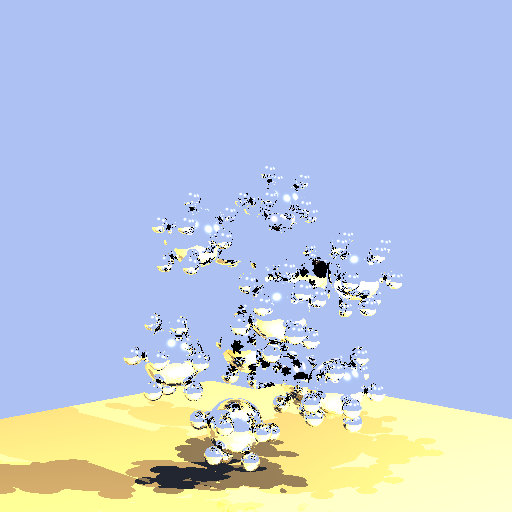
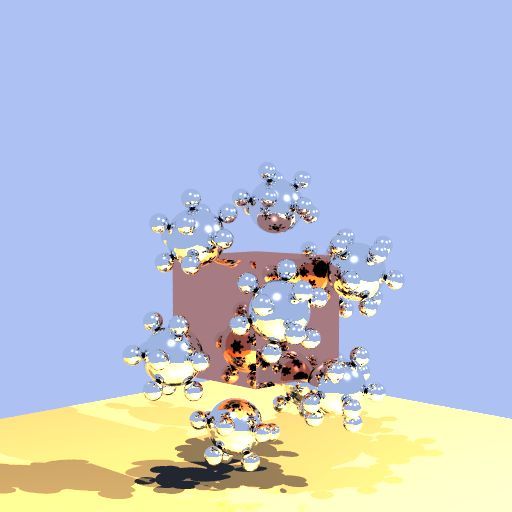
Reflexions fixed. Anti-aliading done.

Changed region(s): [[0.25, 0.3125, 0.7812, 0.9375], [0.25, 0.9062, 0.3125, 0.9688], [0.375, 0.9375, 0.4375, 0.9688]]

diff --git a/lab01/main.cpp b/lab01/main.cpp
@@ -466,13 +466,9 @@ Color getReflection(Vector normal_vec, float cos_theta_i, Vector rev_ray_dir, Ve
 	// Reflection
 	Vector refl_ray_dir = normal_vec * cos_theta_i * 2 - rev_ray_dir;
 	Ray refl_ray(hit_point, refl_ray_dir);
-	//printf("ORIGINAL RAY IS %f, %f, %f\n", rev_ray_dir.x, rev_ray_dir.y, rev_ray_dir.z);
-	//printf("NORMAL IS %f, %f, %f\n", normal_vec.x, normal_vec.y, normal_vec.z);
-	//printf("cos theta i is %f\n", cos_theta_i);
-	//printf("SHORTEST HIT DISTANCE IS %f\n", x);
-	//printf("RAY IS %f, %f, %f\n", refl_ray_dir.x, refl_ray_dir.y, refl_ray_dir.z);
+
 	Color refl_colour = rayTracing(refl_ray, depth + 1, ior_i);
-	return refl_colour * material->GetReflection();
+	return material->GetSpecColor() * refl_colour * material->GetReflection();
 }
 
 Color rayTracing(Ray ray, int depth, float ior_i) // index of refraction of medium 1 where the ray is travelling
@@ -484,11 +480,9 @@ Color rayTracing(Ray ray, int depth, float ior_i) // index of refraction of medi
 	for (int i = 0; i < scene->getNumObjects(); i++) {
 		Object* object = scene->getObject(i);
 		if (object->intercepts(ray, hit_dist) && hit_dist < shortest_hit_dist) {
-			//printf("SHOOTING ON OBJECT %d ", i);
 			shortest_hit_dist = hit_dist;
 			shortest_hit_object = object;
 			shortest_hit_index = i;
-			//printf(" SHORTEST HIT DISTANCE IS %f ", shortest_hit_dist);
 			//cout << "TYPE IS " << typeid(*object).name() << "\n";
 		}
 	}
@@ -500,7 +494,7 @@ Color rayTracing(Ray ray, int depth, float ior_i) // index of refraction of medi
 
 	Vector hit_point = ray.origin + ray.direction * shortest_hit_dist;
 	Vector rev_ray_dir = ray.direction * (-1);
-	//printf("HIT POINT IS %f, %f, %f\n", hit_point.x, hit_point.y, hit_point.z);
+
 	Vector normal_vec = shortest_hit_object->getShadingNormal(rev_ray_dir, hit_point); // normal direction might be wrong - sphere eg. what if ray comes from inside
 
 	// To account for acne spots
@@ -510,7 +504,8 @@ Color rayTracing(Ray ray, int depth, float ior_i) // index of refraction of medi
 	for (int i = 0; i < scene->getNumLights(); i++)
 	{
 		Light* light = scene->getLight(i);
-		Vector light_dir = (light->position - hit_point).normalize();
+		Vector light_dir = light->position - hit_point;
+		light_dir.normalize();
 		
 		float light_normal_dot_product = light_dir * normal_vec;
 
@@ -535,19 +530,25 @@ Color rayTracing(Ray ray, int depth, float ior_i) // index of refraction of medi
 		Color diffuse_colour = material->GetDiffColor() * material->GetDiffuse() * light_normal_dot_product;
 
 		// Halfway vector approximation
-		Vector halfway_vec = (light_dir + rev_ray_dir).normalize();
-		Color specular_colour = material->GetSpecColor() * material->GetSpecular() * pow((halfway_vec * normal_vec), material->GetShine());
+		Vector halfway_vec = light_dir + rev_ray_dir;
+		halfway_vec.normalize();
+
+		float halfway_product = halfway_vec * normal_vec;
+		//TODO: this is always zero, is it supposed to be?
+		Color specular_colour = material->GetSpecColor() * material->GetSpecular() * pow(halfway_product, material->GetShine()); 
+			
+		//printf("Specular");
+		//printf("%f %f %f\n", specular_colour.r(), specular_colour.g(), specular_colour.b());
 
 		colour += light->color * (diffuse_colour + specular_colour);
 	}
-
 
 	if (depth >= MAX_DEPTH || (material->GetTransmittance() == 0 && material->GetReflection() == 0))
 		return colour;
 
 	float cos_theta_i = normal_vec * rev_ray_dir; // Because both vectors are normalised
 
-	// printf("GETTING REFLECTED RAY CASE 1 ");
+	// TODO: Execute if has diffuse?
 	if (material->GetTransmittance() == 0)
 		return colour + getReflection(normal_vec, cos_theta_i, rev_ray_dir, mod_hit_point, material, depth, ior_i, shortest_hit_dist);
 
@@ -560,7 +561,6 @@ Color rayTracing(Ray ray, int depth, float ior_i) // index of refraction of medi
 
 	float sin_theta_t = sin_theta_i * ior_i / ior_t;
 	
-	//printf("GETTING REFLECTED RAY CASE 2 ");
 	if (sin_theta_t > 1)
 		return colour + getReflection(normal_vec, cos_theta_i, rev_ray_dir, mod_hit_point, material, depth, ior_i, shortest_hit_dist);
 
@@ -579,7 +579,6 @@ Color rayTracing(Ray ray, int depth, float ior_i) // index of refraction of medi
 	Vector reflected_ray_direction = ray.direction - normal_vec * (ray.direction * normal_vec) * 2;
 	Ray reflected_ray(hit_point, reflected_ray_direction);
 
-	//printf("GETTING REFLECTED RAY CASE 3 ");
 	Color reflected_colour = rayTracing(reflected_ray, depth + 1, ior_i);
 	colour += reflected_colour * Kr;
 
@@ -590,7 +589,6 @@ Color rayTracing(Ray ray, int depth, float ior_i) // index of refraction of medi
 	Vector refracted_ray_direction = tangent_vec * sin_theta_t - normal_vec * cos_theta_t;
 	Ray refracted_ray(hit_point, refracted_ray_direction);
 
-	//printf("GETTING REFRACTED RAY ");
 	Color refracted_colour = rayTracing(refracted_ray, depth + 1, ior_t);
 	colour += refracted_colour * (1 - Kr);
 
@@ -604,6 +602,7 @@ void renderScene()
 	int index_pos = 0;
 	int index_col = 0;
 	unsigned int counter = 0;
+	int num_samples = scene->GetSamplesPerPixel();
 
 	if (drawModeEnabled)
 	{
@@ -615,14 +614,35 @@ void renderScene()
 	{
 		for (int x = 0; x < RES_X; x++)
 		{
-			Color color;
-			Vector pixel; // viewport coordinates
-			pixel.x = x + 0.5f;
-			pixel.y = y + 0.5f;
+			Color color = Color();
+			
 
-			Ray ray = scene->GetCamera()->PrimaryRay(pixel); // function from camera.h
-			//printf("GETTING PRIMARY RAY ");
-			color = rayTracing(ray, 1, 1.0).clamp();
+			if (num_samples == 0) {
+				Vector pixel;
+				pixel.x = x + 0.5f;
+				pixel.y = y + 0.5f;
+
+				Ray ray = scene->GetCamera()->PrimaryRay(pixel); // function from camera.h
+				color = rayTracing(ray, 1, 1.0).clamp();
+			}
+			else {
+				for (int p = 0; p < num_samples; p++) {
+					for (int q = 0; q < num_samples; q++) {
+
+						Vector sample; // viewport coordinates
+						float e = rand_float(); // TODO: necessary to set seed?
+
+						sample.x = x + (p + e) / num_samples;
+						sample.y = y + (q + e) / num_samples;
+
+						Ray ray = scene->GetCamera()->PrimaryRay(sample); // function from camera.h
+						color += rayTracing(ray, 1, 1.0);
+					}
+				}
+
+				color = color * (1 / pow(num_samples, 2));
+				color = color.clamp();
+			}
 
 			img_Data[counter++] = u8fromfloat((float)color.r());
 			img_Data[counter++] = u8fromfloat((float)color.g());
